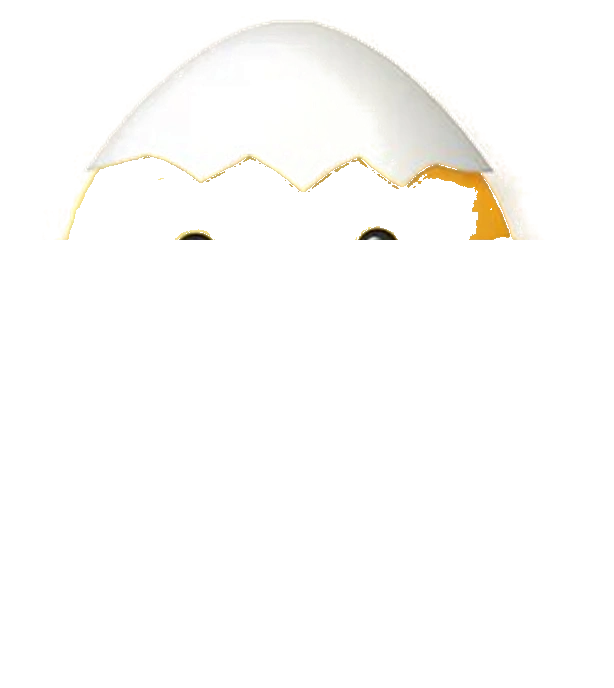
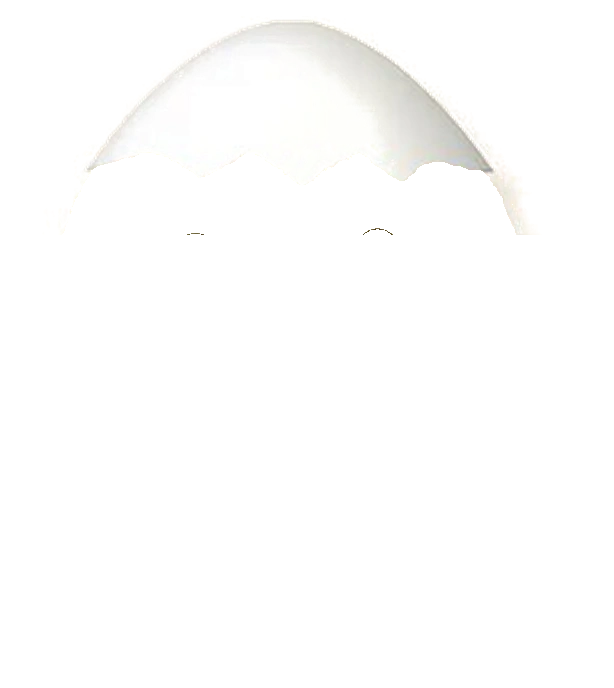
Fix 404 duck doubling/blur and restore previous scroll position on Go back

diff --git a/assets/js/main.js b/assets/js/main.js
@@ -3,26 +3,83 @@
  * High Performance, Zero Bloat, Accessibility Focused
  */
 
-// Force page positioning to the absolute top of window upon initial load and page reload
-if ('scrollRestoration' in history) {
-  history.scrollRestoration = 'manual';
-}
-window.scrollTo({ top: 0, left: 0, behavior: 'instant' });
+// Navigation Tracking & Scroll Position Restoration
+// Allows 404 "Go back" to return directly to the exact previous position and page
+(function initScrollAndHistoryTracking() {
+  const is404 = window.location.pathname.endsWith('404.html') || window.location.pathname.endsWith('404');
 
-window.addEventListener('beforeunload', () => {
-  window.scrollTo({ top: 0, left: 0, behavior: 'instant' });
-});
+  if (!is404) {
+    // Continuously save current page and scroll position for 404 "Go back" return
+    const recordCurrentLocation = () => {
+      try {
+        sessionStorage.setItem('stackly_last_page', window.location.href);
+        sessionStorage.setItem('stackly_last_scroll_y', window.scrollY.toString());
+      } catch (err) {}
+    };
 
-window.addEventListener('pageshow', () => {
-  window.scrollTo({ top: 0, left: 0, behavior: 'instant' });
-});
+    window.addEventListener('scroll', recordCurrentLocation, { passive: true });
+    window.addEventListener('beforeunload', recordCurrentLocation);
 
-window.addEventListener('load', () => {
-  window.scrollTo({ top: 0, left: 0, behavior: 'instant' });
-});
+    // Save location immediately on any link click (especially 404 links)
+    document.addEventListener('click', (e) => {
+      const link = e.target.closest('a');
+      if (link && link.href) {
+        recordCurrentLocation();
+      }
+    }, { capture: true });
+
+    // Check if user is returning from the 404 page
+    let returningFrom404 = false;
+    let savedScrollY = 0;
+    try {
+      if (sessionStorage.getItem('stackly_from_404') === 'true') {
+        returningFrom404 = true;
+        sessionStorage.removeItem('stackly_from_404');
+        const saved = sessionStorage.getItem('stackly_last_scroll_y');
+        if (saved !== null) {
+          savedScrollY = parseInt(saved, 10) || 0;
+        }
+      }
+    } catch (err) {}
+
+    if (returningFrom404 && savedScrollY > 0) {
+      if ('scrollRestoration' in history) {
+        history.scrollRestoration = 'manual';
+      }
+      const restoreScroll = () => {
+        window.scrollTo({ top: savedScrollY, left: 0, behavior: 'instant' });
+      };
+      restoreScroll();
+      window.addEventListener('pageshow', restoreScroll);
+      document.addEventListener('DOMContentLoaded', restoreScroll);
+      window.addEventListener('load', () => {
+        restoreScroll();
+        setTimeout(restoreScroll, 50);
+        setTimeout(restoreScroll, 180);
+      });
+    } else {
+      // Standard initial fresh page visit: start at top
+      if ('scrollRestoration' in history) {
+        history.scrollRestoration = 'manual';
+      }
+      window.scrollTo({ top: 0, left: 0, behavior: 'instant' });
+      window.addEventListener('beforeunload', () => {
+        window.scrollTo({ top: 0, left: 0, behavior: 'instant' });
+      });
+      window.addEventListener('pageshow', () => {
+        window.scrollTo({ top: 0, left: 0, behavior: 'instant' });
+      });
+      window.addEventListener('load', () => {
+        window.scrollTo({ top: 0, left: 0, behavior: 'instant' });
+      });
+      document.addEventListener('DOMContentLoaded', () => {
+        window.scrollTo({ top: 0, left: 0, behavior: 'instant' });
+      });
+    }
+  }
+})();
 
 document.addEventListener('DOMContentLoaded', () => {
-  window.scrollTo({ top: 0, left: 0, behavior: 'instant' });
   initLoader();
   initBackgroundVideos();
   initHeroAnimations();

diff --git a/pages/404.html b/pages/404.html
@@ -44,9 +44,6 @@
             width="614"
             height="688"
           >
-          <!-- Blinking Eyes Overlay -->
-          <span class="duck-eye-blink eye-left" aria-hidden="true"></span>
-          <span class="duck-eye-blink eye-right" aria-hidden="true"></span>
         </div>
 
         <!-- 2. Bottom Eggshell Cup (Fixed in front of duck's lower body) -->
@@ -103,7 +100,7 @@
       <!-- Go back: refers to last location of website -->
       <button
         type="button"
-        onclick="if(window.history.length>1){window.history.back();}else{window.location.href='../index.html';}"
+        onclick="handleGoBack(event)"
         class="btn-404-action btn-go-back"
         aria-label="Go back to the previous page"
       >
@@ -126,6 +123,30 @@
 
   <script src="../assets/js/main.js"></script>
   <script>
+    // Handle "Go back" redirection to exact previous location and scroll position
+    function handleGoBack(e) {
+      if (e && e.preventDefault) e.preventDefault();
+      try {
+        sessionStorage.setItem('stackly_from_404', 'true');
+        var prevUrl = sessionStorage.getItem('stackly_last_page');
+        if (prevUrl && prevUrl !== window.location.href && !prevUrl.includes('404.html')) {
+          window.location.href = prevUrl;
+          return;
+        }
+        if (document.referrer && document.referrer !== window.location.href && !document.referrer.includes('404.html')) {
+          window.location.href = document.referrer;
+          return;
+        }
+        if (window.history.length > 1) {
+          window.history.back();
+          return;
+        }
+      } catch (err) {
+        console.warn('Navigation fallback:', err);
+      }
+      window.location.href = '../index.html';
+    }
+
     // Replay hatching wobble on egg click
     document.addEventListener('DOMContentLoaded', function () {
       var stage = document.getElementById('hatch-stage');

diff --git a/assets/css/style.css b/assets/css/style.css
@@ -3419,7 +3419,6 @@ body.error-page-body {
   width: clamp(170px, 26vw, 255px);
   aspect-ratio: 614 / 688;
   margin: 0 auto;
-  filter: drop-shadow(0 14px 28px rgba(33, 18, 32, 0.08));
 }
 
 /* Layer Images */
@@ -3430,6 +3429,10 @@ body.error-page-body {
   user-select: none;
   -webkit-user-drag: none;
   pointer-events: none;
+  image-rendering: auto;
+  -webkit-backface-visibility: hidden;
+  backface-visibility: hidden;
+  transform: translateZ(0);
 }
 
 /* Layer 1: Duck Body (Starts hidden inside bottom shell, emerges upward) */
@@ -3440,6 +3443,10 @@ body.error-page-body {
   height: 100%;
   z-index: 2;
   transform-origin: bottom center;
+  -webkit-backface-visibility: hidden;
+  backface-visibility: hidden;
+  will-change: transform, opacity;
+  transform: translateZ(0);
   animation:
     duckHatchRise 2.2s cubic-bezier(0.34, 1.56, 0.64, 1) forwards,
     duckIdleBreathe 4s ease-in-out infinite 2.2s;
@@ -3530,6 +3537,10 @@ body.error-page-body {
   height: 100%;
   z-index: 4;
   transform-origin: bottom center;
+  -webkit-backface-visibility: hidden;
+  backface-visibility: hidden;
+  will-change: transform;
+  transform: translateZ(0);
   animation:
     shellTopHatch 2.2s cubic-bezier(0.34, 1.56, 0.64, 1) forwards,
     shellHatIdle 4s ease-in-out infinite 2.2s;
